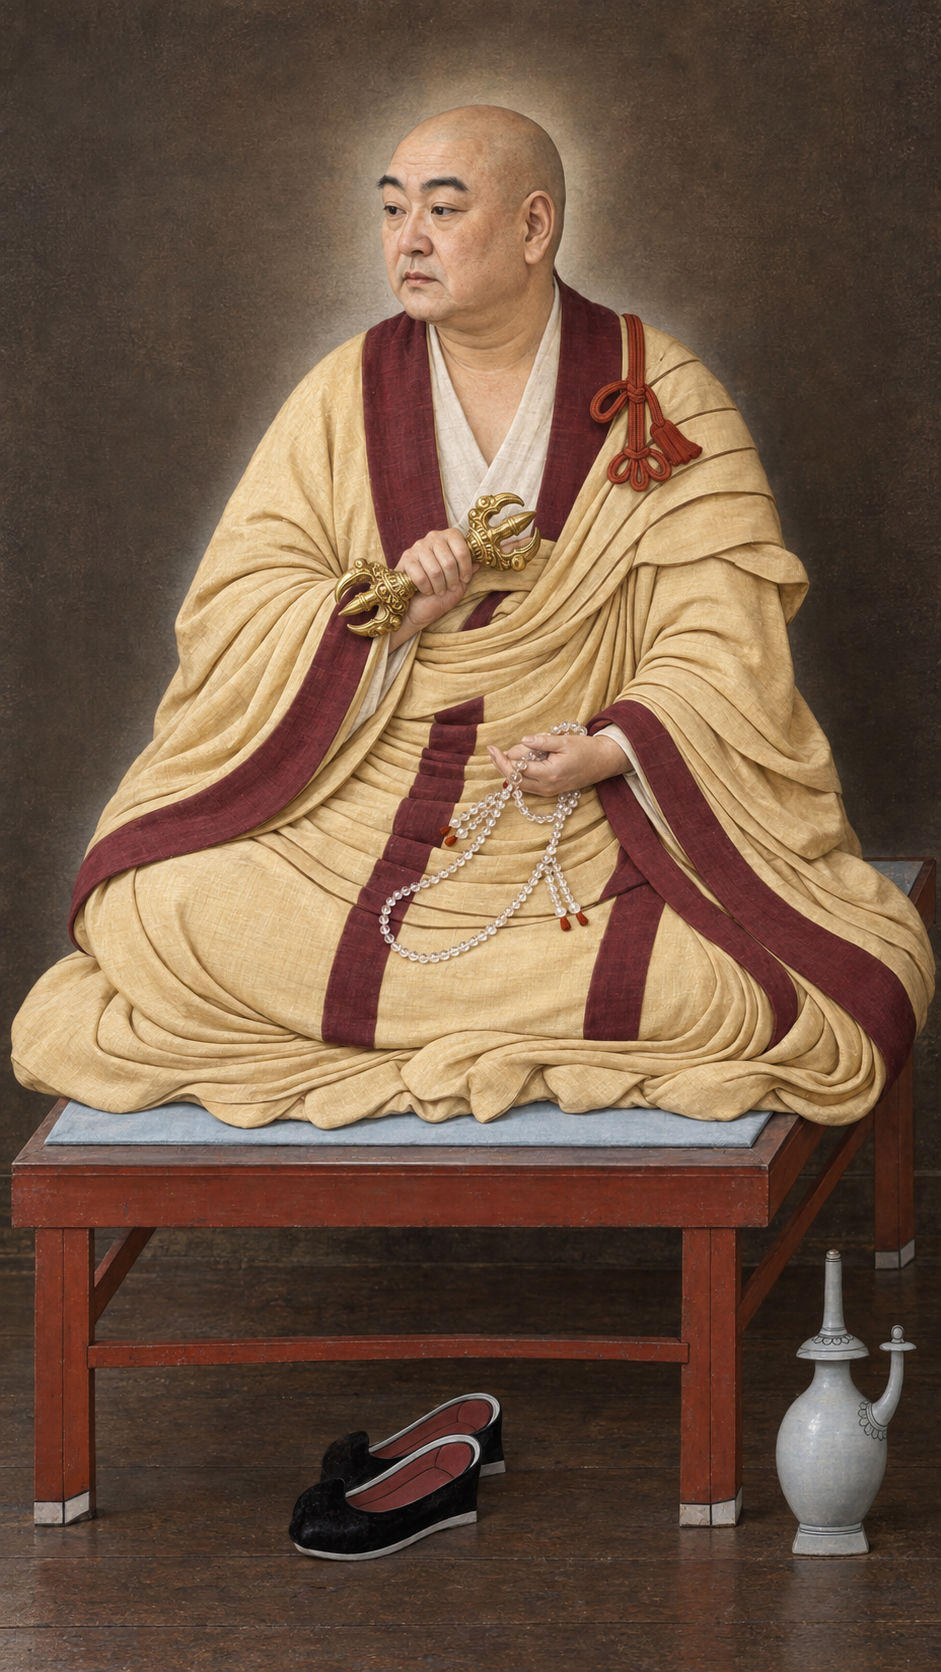
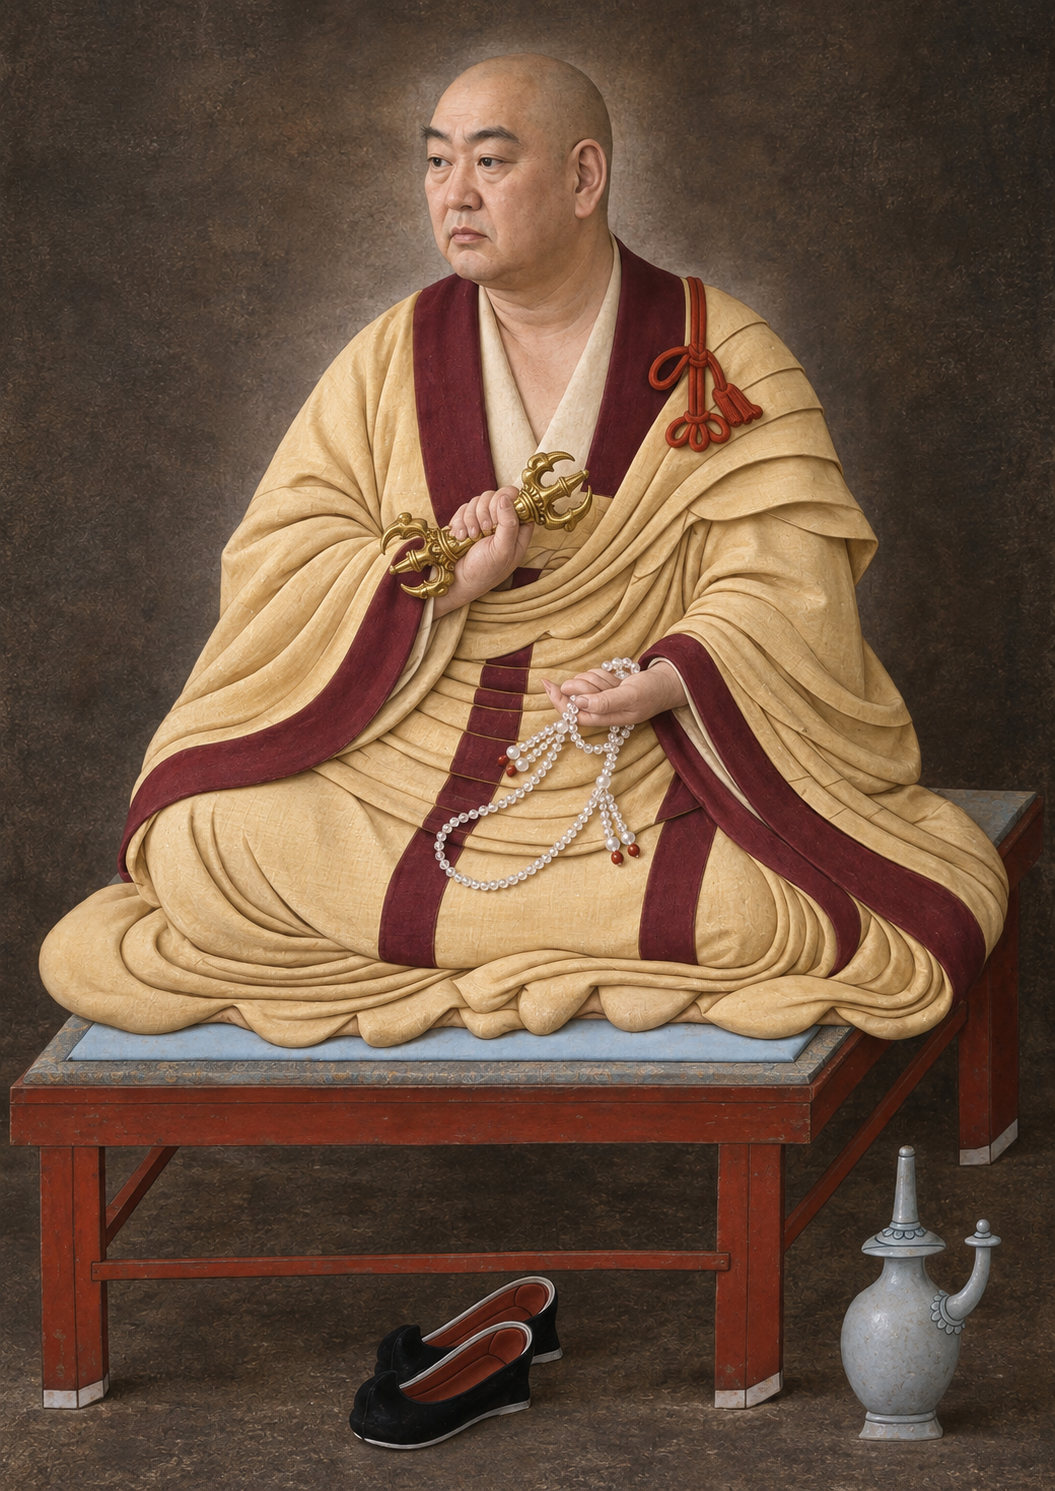
Add realistic portraits for fifth through eighth patriarchs

diff --git a/js/data.js b/js/data.js
@@ -27,7 +27,7 @@ const HACHISO = [
   restored:`images/restored/${p.id}_最終_web.webp`,
   restoredThumb:`images/restored/${p.id}_最終_thumb.webp`,
   explanation:`images/explanation/${p.id}_解説_web.webp`,
-  realistic:p.id===8?"images/realistic/8_リアル.png":"",
+  realistic:p.id>=5?`images/realistic/${p.id}_リアル.png`:"",
   // 3D・映像は八祖全員を再制作中。公開準備が整うまで読み込まない。
   threeD:"",
   video:""

diff --git a/js/viewer.js b/js/viewer.js
@@ -340,7 +340,7 @@
   function loadImg(img,path,onOk,onFail){
     img.onload=()=>{onOk&&onOk()};
     img.onerror=()=>{onFail&&onFail(path)};
-    img.src=path+'?v=16';
+    img.src=path+'?v=17';
   }
 
   function fitExplanationToCompareFrame(){

diff --git a/index.html b/index.html
@@ -292,7 +292,7 @@
   </div>
 </div>
 
-<script src="js/data.js?v=17"></script>
-<script src="js/viewer.js?v=49"></script>
+<script src="js/data.js?v=18"></script>
+<script src="js/viewer.js?v=50"></script>
 </body>
 </html>
